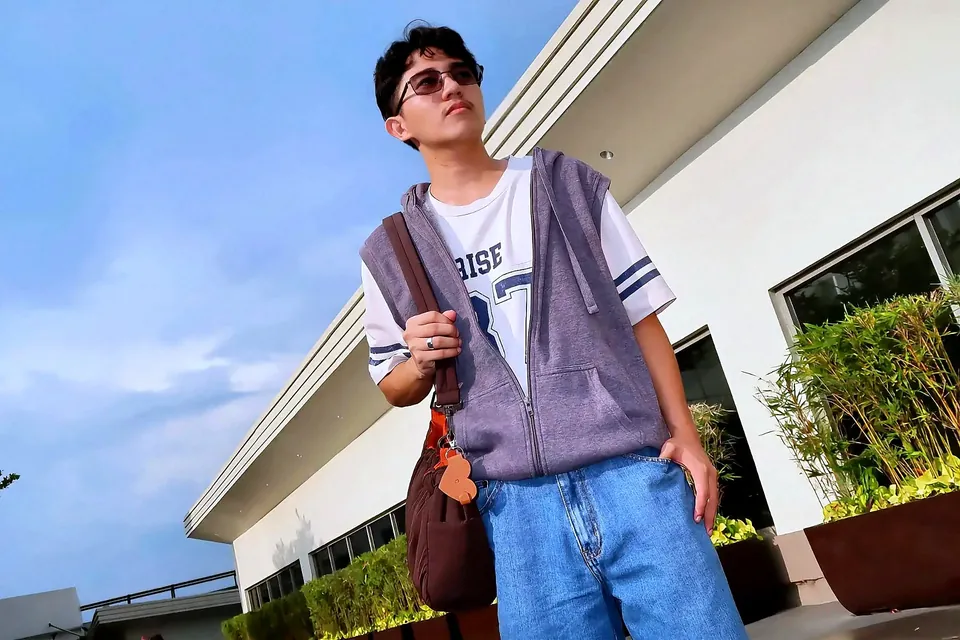
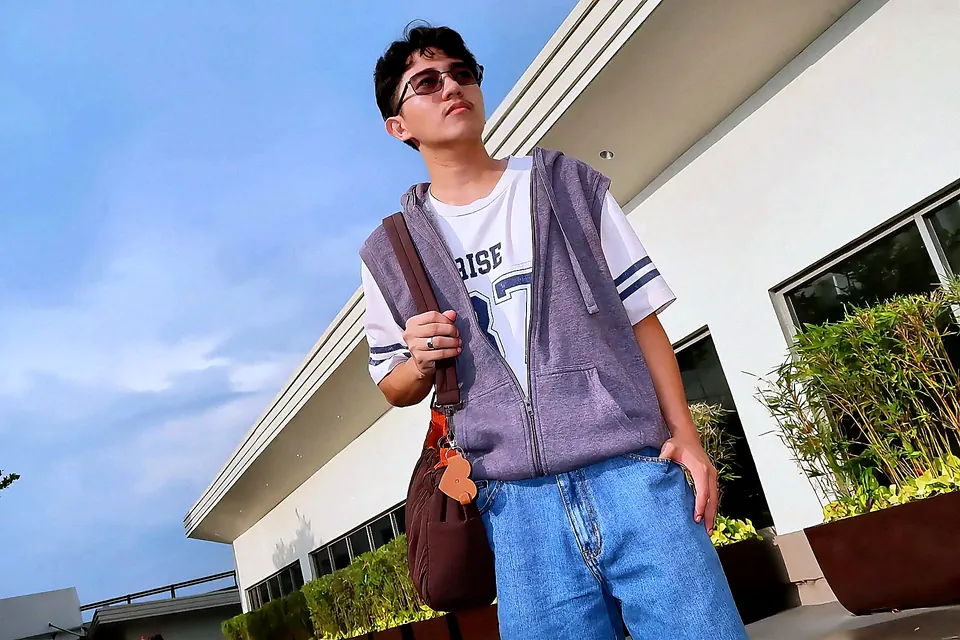
Hero: sharper photos, caption card replaced by a maroon pager
The white caption bar is gone. The slide label, a bigger serif caption and a minimal pager — maroon bar, dots, chevron, 01/04 — now sit straight on the photo, and the headline carries the brand maroon.

Photos are re-cut from the 1920px originals with a two-pass unsharp and quality 88, and renamed so no cache keeps serving the old bytes. Photo 3's pink watermark is cropped out at 85% width. Only the first slide blocks first paint; the rest arrive a beat later.

diff --git a/src/pages/Home.tsx b/src/pages/Home.tsx
@@ -135,7 +135,7 @@ const DAYS = [
 // it drew anything, and a desktop would be stuck with a soft, upscaled image.
 const SLIDES = [
   {
-    src: '/img/hero-1.webp',
+    src: '/img/hero-1-wide.webp',
     small: '/img/hero-1-960.webp',
     wide: 1920,
     alt: 'A man carrying a brown shoulder bag with the tan teardrop keychain clipped to the strap',
@@ -144,7 +144,7 @@ const SLIDES = [
     focus: '50% 10%',
   },
   {
-    src: '/img/hero-2.webp',
+    src: '/img/hero-2-wide.webp',
     small: '/img/hero-2-960.webp',
     wide: 1920,
     alt: 'A woman on an escalator with a black shoulder bag and the red heart keychain',
@@ -153,16 +153,16 @@ const SLIDES = [
     focus: '46% 10%',
   },
   {
-    src: '/img/hero-3.webp',
+    src: '/img/hero-3-wide.webp',
     small: '/img/hero-3-960.webp',
-    wide: 1651,
+    wide: 1632,
     alt: 'A woman in a pink shirt carrying a white shoulder bag with the red heart keychain',
     label: 'The heart chain',
     caption: 'A little colour on the way out.',
     focus: '48% 10%',
   },
   {
-    src: '/img/hero-4.webp',
+    src: '/img/hero-4-wide.webp',
     small: '/img/hero-4-960.webp',
     wide: 1920,
     alt: 'A woman in a brown top with the black heart keychain clipped at her waist',
@@ -181,6 +181,15 @@ export default function Home() {
   // entirely for anyone who has asked their system to reduce motion.
   const [hero, setHero] = useState(0);
   const [hold, setHold] = useState(false);
+
+  // Only the first photo holds up the first paint. The other three are added a
+  // beat later — they are opaque and stacked anyway, so nothing on screen
+  // changes when they arrive, and the slider never runs out of runway.
+  const [rest, setRest] = useState(false);
+  useEffect(() => {
+    const t = window.setTimeout(() => setRest(true), 700);
+    return () => window.clearTimeout(t);
+  }, []);
 
   useEffect(() => {
     if (hold) return;
@@ -241,7 +250,7 @@ export default function Home() {
         onFocus={() => setHold(true)}
         onBlur={() => setHold(false)}
       >
-        {SLIDES.map((s, i) => (
+        {(rest || hero > 0 ? SLIDES : SLIDES.slice(0, 1)).map((s, i) => (
           <img
             key={s.src}
             src={s.src}
@@ -264,7 +273,15 @@ export default function Home() {
             runs full width, so the veil turns and works from the bottom up. */}
         <div
           aria-hidden
-          className="pointer-events-none absolute inset-0 bg-[linear-gradient(90deg,rgba(249,239,241,0.93)_0%,rgba(249,239,241,0.87)_28%,rgba(249,239,241,0.62)_44%,rgba(249,239,241,0.22)_62%,rgba(249,239,241,0.04)_78%,rgba(249,239,241,0)_92%)] max-lg:bg-[linear-gradient(to_bottom,rgba(249,239,241,0.86)_0%,rgba(249,239,241,0.78)_38%,rgba(249,239,241,0.58)_66%,rgba(249,239,241,0.34)_88%,rgba(249,239,241,0.26)_100%)]"
+          className="pointer-events-none absolute inset-0 bg-[linear-gradient(90deg,rgba(249,239,241,0.95)_0%,rgba(249,239,241,0.90)_26%,rgba(249,239,241,0.62)_42%,rgba(249,239,241,0.22)_60%,rgba(249,239,241,0.04)_78%,rgba(249,239,241,0)_92%)] max-lg:bg-[linear-gradient(to_bottom,rgba(249,239,241,0.88)_0%,rgba(249,239,241,0.82)_36%,rgba(249,239,241,0.66)_64%,rgba(249,239,241,0.46)_100%)]"
+        />
+
+        {/* On a phone the caption and pager land on the busiest part of the
+            photo, so they get a soft wash that fades into the image. It has no
+            edge, which is the whole point — a card was what we just removed. */}
+        <div
+          aria-hidden
+          className="pointer-events-none absolute inset-x-0 bottom-0 h-[168px] bg-[linear-gradient(to_top,rgba(249,239,241,0.95)_0%,rgba(249,239,241,0.80)_40%,rgba(249,239,241,0.34)_74%,rgba(249,239,241,0)_100%)] lg:hidden"
         />
 
         <div className="relative z-10 flex flex-1 flex-col justify-center py-16 pr-14 pl-[max(2rem,calc((100vw-1240px)/2+2rem))] max-lg:px-8 max-md:px-5">
@@ -272,11 +289,11 @@ export default function Home() {
             <span className="h-[5px] w-[5px] rounded-full bg-current" />
             Handmade in the Philippines
           </p>
-          <h1 className="max-w-[12ch] text-[clamp(38px,4.1vw,54px)] leading-[1.08]">
+          <h1 className="max-w-[14ch] text-[clamp(40px,4.4vw,58px)] leading-[1.06] text-wine-800">
             A little style.
             <br />A clearer day.
           </h1>
-          <p className="mt-5 max-w-[40ch] text-[13.5px] leading-[1.75] text-ink-700">
+          <p className="mt-6 max-w-[42ch] text-[14.5px] leading-[1.75] text-ink-900/85">
             Meet ClearChain — a leather keychain with a microfiber pad, made to keep your glasses,
             screens, and everyday lenses clean, clear, and close at hand.
           </p>
@@ -310,19 +327,18 @@ export default function Home() {
           </div>
         </div>
 
-        {/* Caption card: part of the flow on a phone, pinned bottom-right on a
-            desktop where there is room for it to float over the photo. */}
-        <div className="relative z-10 mx-7 mb-7 flex items-center justify-between gap-4 rounded bg-white/95 py-4 pr-4 pl-[22px] backdrop-blur max-md:mx-3.5 max-md:mb-3.5 lg:absolute lg:bottom-7 lg:left-[max(2rem,calc((100vw-1240px)/2+2rem))] lg:mx-0 lg:mb-0 lg:w-[420px]">
-          <div className="min-w-0">
-            <p className="text-[8.5px] uppercase tracking-[0.2em] text-crimson-600">
-              {SLIDES[hero].label}
-            </p>
-            <p className="mt-1 font-serif text-[15px] leading-[1.3] text-ink-900">
-              {SLIDES[hero].caption}
-            </p>
-          </div>
+        {/* Slide label, caption and pager — straight on the photo, no card.
+            The active slide is a maroon bar rather than a dot, so the eye
+            reads "one of four" without a counter doing the talking. */}
+        <div className="relative z-10 mx-7 mb-7 max-md:mx-5 max-md:mb-6 lg:absolute lg:bottom-8 lg:left-[max(2rem,calc((100vw-1240px)/2+2rem))] lg:mx-0 lg:mb-0 lg:w-[440px]">
+          <p className="text-[10.5px] font-semibold uppercase tracking-[0.26em] text-crimson-600">
+            {SLIDES[hero].label}
+          </p>
+          <p className="mt-2.5 max-w-[24ch] font-serif text-[26px] leading-[1.2] text-wine-800 max-md:text-[22px]">
+            {SLIDES[hero].caption}
+          </p>
 
-          <div className="flex flex-none items-center gap-3">
+          <div className="mt-5 flex items-center gap-4">
             <div className="flex items-center">
               {SLIDES.map((s, i) => (
                 <button
@@ -330,24 +346,41 @@ export default function Home() {
                   onClick={() => setHero(i)}
                   aria-label={`Photo ${i + 1} of ${SLIDES.length}`}
                   aria-current={i === hero}
-                  className="grid place-items-center p-[7px]"
+                  className="grid h-7 place-items-center px-[4px]"
                 >
                   <span
                     className={[
-                      'block h-[3px] rounded-full transition-all',
-                      i === hero ? 'w-4 bg-crimson-600' : 'w-[3px] bg-blush-400',
+                      'block rounded-full transition-all duration-300',
+                      i === hero
+                        ? 'h-[4px] w-10 bg-crimson-600'
+                        : 'h-[5px] w-[5px] bg-wine-800/40 hover:bg-wine-800/70',
                     ].join(' ')}
                   />
                 </button>
               ))}
             </div>
+
+            <span aria-hidden className="h-3.5 w-px bg-wine-800/20" />
+
             <button
               onClick={nextHero}
               aria-label="Next photo"
-              className="grid h-[34px] w-[34px] flex-none place-items-center rounded-full border border-blush-300 bg-white text-wine-800 transition-colors hover:bg-wine-800 hover:text-white"
+              className="grid h-9 w-9 flex-none place-items-center rounded-full border border-wine-800/25 text-wine-800 transition-colors hover:border-wine-800 hover:bg-wine-800 hover:text-white"
             >
-              <ArrowRight />
+              <svg viewBox="0 0 12 12" className="h-3 w-3" fill="none">
+                <path
+                  d="M4.2 2.4 7.8 6l-3.6 3.6"
+                  stroke="currentColor"
+                  strokeWidth="1.4"
+                  strokeLinecap="round"
+                  strokeLinejoin="round"
+                />
+              </svg>
             </button>
+
+            <span className="num text-[10.5px] tracking-[0.16em] text-wine-800/55">
+              {String(hero + 1).padStart(2, '0')} / {String(SLIDES.length).padStart(2, '0')}
+            </span>
           </div>
         </div>
       </section>
